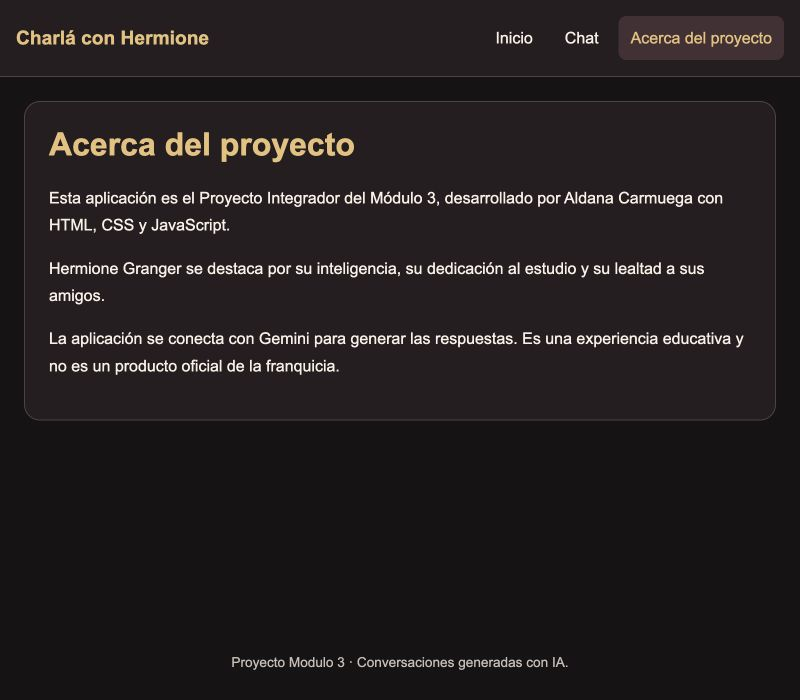
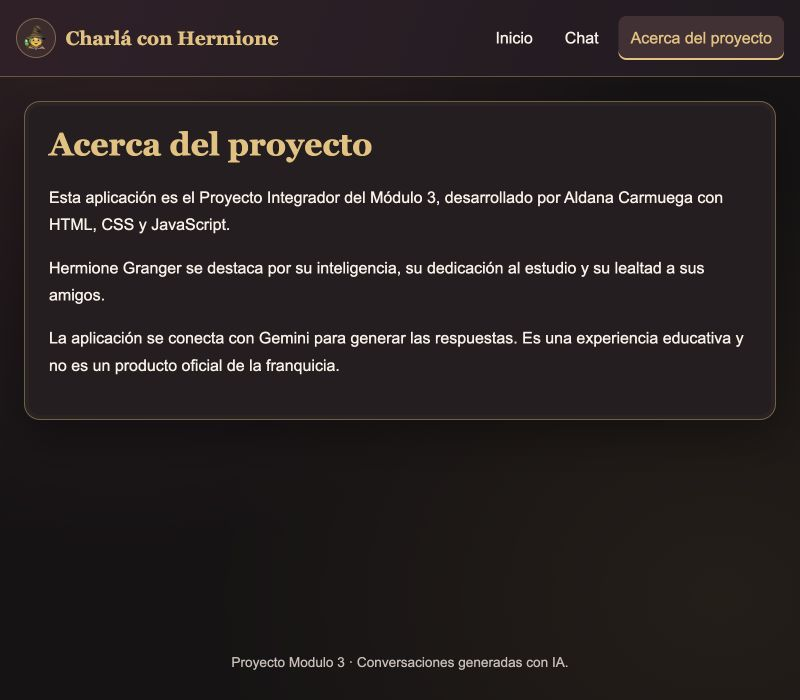
Corregir scroll del chat y actualizar capturas del README

diff --git a/src/chat.js b/src/chat.js
@@ -82,8 +82,8 @@ async function requestReply() {
   isLoading = true;
   chatError = "";
 
-  renderMessages();
   renderState();
+  renderMessages();
 
   try {
     const reply = await getAIReply(messages);
@@ -94,14 +94,14 @@ async function requestReply() {
     chatError = error.message || "No se pudo obtener una respuesta.";
   } finally {
     isLoading = false;
-    renderMessages();
     renderState();
+    renderMessages();
   }
 }
 
 export function initChat() {
-  renderMessages();
   renderState();
+  renderMessages();
 
   const form = document.querySelector("#chat-form");
   form.addEventListener("submit", handleSubmit);

diff --git a/README.md b/README.md
@@ -85,7 +85,7 @@ La aplicación se publicó el 30 de septiembre de 2026. Se verificaron las vista
 
 ## Capturas de pantalla de la aplicación funcionando
 
-Capturas de la aplicación publicada en Vercel, tomadas el 30 de septiembre de 2026.
+Capturas de la aplicación publicada en Vercel, actualizadas el 1 de octubre de 2026 con el diseño mágico.
 
 **Inicio**
 
@@ -93,7 +93,7 @@ Capturas de la aplicación publicada en Vercel, tomadas el 30 de septiembre de 2
 
 **Chat con una respuesta real de Gemini**
 
-![Conversación con Hermione sobre cómo estudiar JavaScript](docs/capturas/chat.png)
+![Conversación con Hermione sobre su lugar favorito de Hogwarts](docs/capturas/chat.png)
 
 **Chat en pantalla móvil (390 × 844)**
 
